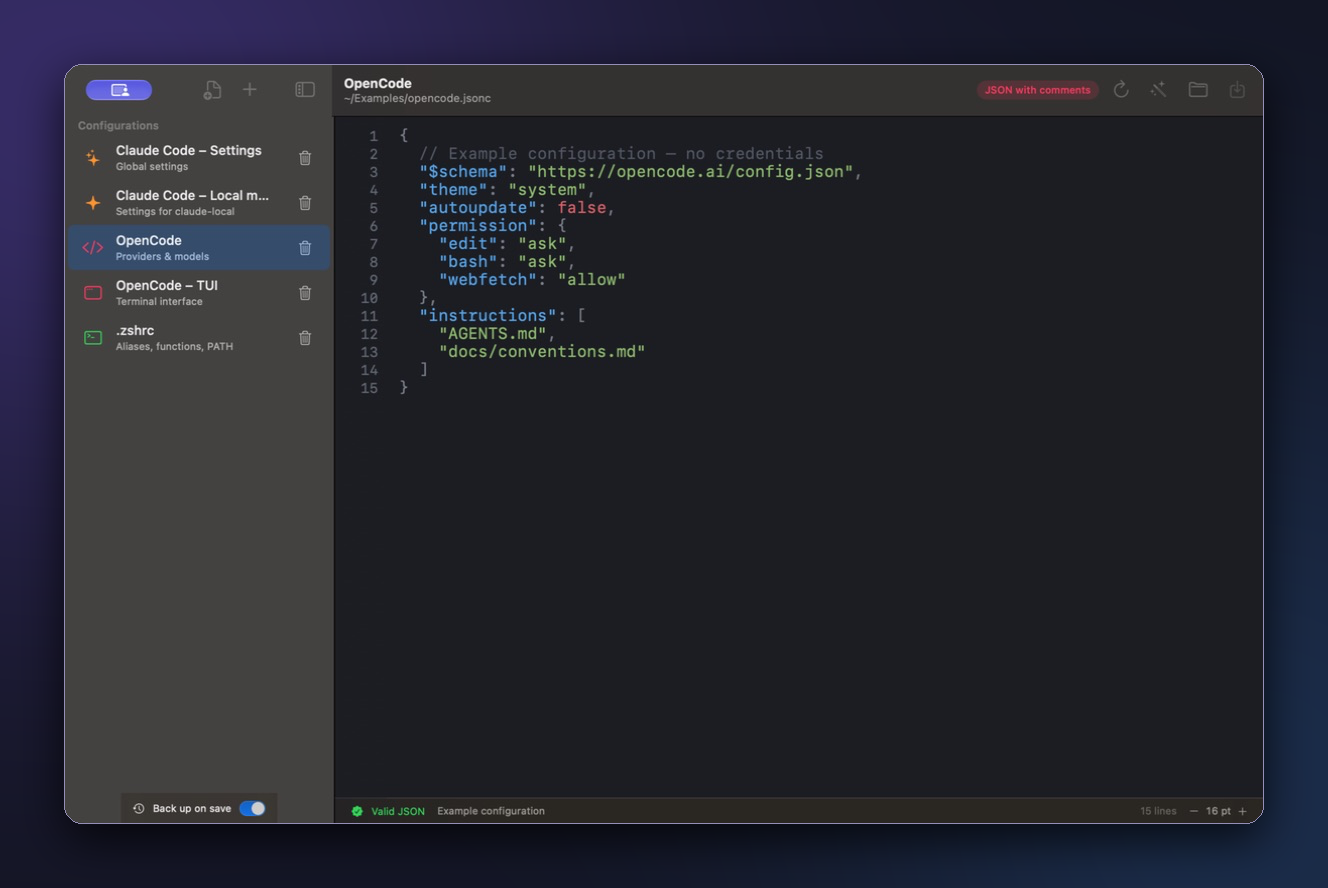
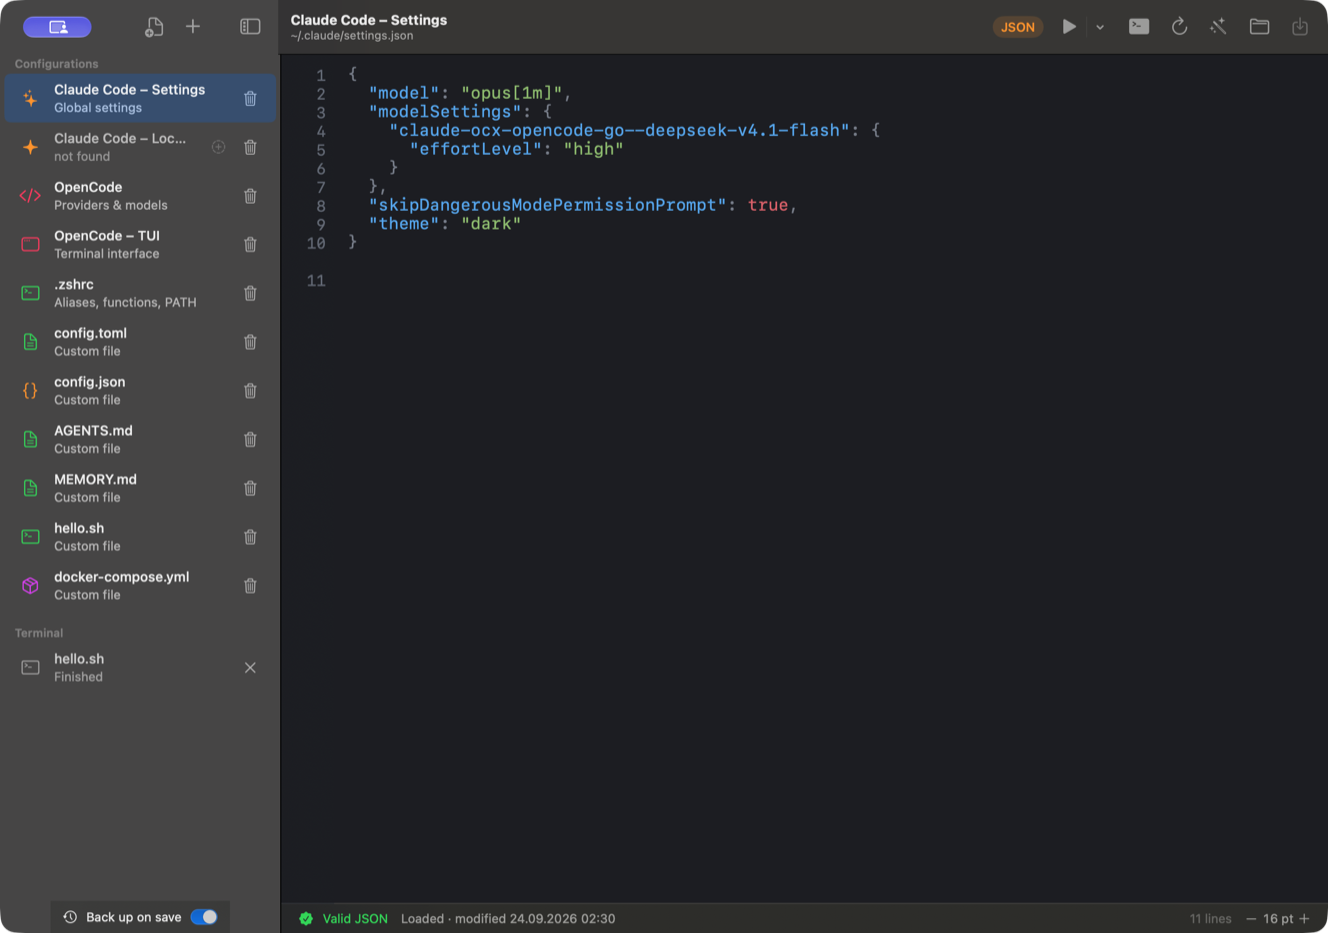
Refresh the README and screenshots for 0.2.0
The showcase now shows the sidebar with script and compose entries, and a new
section explains running scripts with its own screenshot. Both images come
from the current build (retina, 1280x900 window).

Changed region(s): [[0.0, 0.0, 1.0, 1.0], [0.8336, 0.5169, 1.0, 1.0], [0.7101, 0.0912, 0.9571, 0.152]]

diff --git a/README.md b/README.md
@@ -21,7 +21,7 @@ Built by [Robin Bially](https://github.com/robin-bially).
 
 <br />
 
-[![DotShelf’s native Mac interface: a sidebar of Claude Code, OpenCode and Zsh settings beside a syntax-highlighted JSONC editor with live validation and backups enabled.](docs/images/showcase.png)](docs/images/screenshot.png)
+[![DotShelf’s native Mac interface: a sidebar of configuration files beside a syntax-highlighted JSON editor with live validation, and a Terminal section holding a finished script run.](docs/images/showcase.png)](docs/images/screenshot.png)
 
 <p align="center"><sub>The actual DotShelf interface, in English, with example configuration files. Click for the full-size screenshot.</sub></p>
 
@@ -33,6 +33,8 @@ in another. You know the change you want to make; finding the file is the tediou
 DotShelf gives those files a permanent home in a sidebar. Open your Claude Code
 settings, tweak an OpenCode config or update `.zshrc` in a focused native editor.
 Add any other file you return to often, and give it an icon and color of its own.
+When a project comes with a script – a `docker compose` stack, a setup script –
+DotShelf runs it right there and shows the output where you edit.
 
 **Everything stays on your Mac.** No account, network calls or telemetry.
 Built with SwiftUI and AppKit, with no third-party runtime dependencies.
@@ -44,12 +46,29 @@ Built with SwiftUI and AppKit, with no third-party runtime dependencies.
 | **A shelf for your configs** | Built-in entries for Claude Code, OpenCode and Zsh. Add your own files, including hidden ones, and collapse the sidebar into an icon rail. |
 | **Comfortable editing** | Syntax highlighting for JSON, JSONC, YAML and shell, plus line numbers, search and adjustable text size. |
 | **Instant JSON feedback** | Live syntax validation for JSON and JSONC. Format JSON in a click; formatting JSONC asks before removing comments. |
+| **Run scripts where you edit them** | Start a shell script or a `docker compose` stack with **⌃R** or the green play button – it runs right away, options only when you ask for them (**⌥⌃R**). A temporary terminal entry appears in the sidebar and its output opens in the editor, with input, stop, rerun and clear. |
 | **Control over your edits** | Save explicitly with **⌘S**. Save, discard or cancel when leaving unsaved changes. Failed saves keep your buffer intact. |
 | **Careful file handling** | Preserve symlinks and existing permissions. Detect external changes before saving. Create new files with owner-only permissions. |
 | **Backups by default** | Each save of an existing file creates a separate backup beside its target. |
 
 English is the default interface language. See the [usage guide](docs/USAGE.md)
 for keyboard shortcuts, default file locations and current limitations.
+
+## Run scripts where you edit them
+
+[![DotShelf running a shell script: the sidebar lists the temporary “hello.sh” terminal entry, and the editor shows the script’s output with a green Finished status.](docs/images/terminal.png)](docs/images/terminal.png)
+
+Select a shell script or a `docker compose` file and press **⌃R** – or click the
+green play button. The command starts right away; a temporary entry appears in
+the sidebar's **Terminal** section and its output opens in the editor. Scripts and
+compose files carry their own icon, so you can tell at a glance what runs where.
+
+The terminal is a real one: type into a running process, press **⌃C** to stop it,
+**⌘V** to paste. A shell that waits at its prompt reads **Ready** – the spinner
+only shows while something actually works. DotShelf asks before closing only when
+a process is still running, and a finished script can hand over to a free login
+shell in the same folder. Options (command, working directory, name) are there
+when you want them: **⌥⌃R** or the menu next to the play button.
 
 ## Get started
 
@@ -115,7 +134,8 @@ Bug reports and focused pull requests are welcome.
 
 SwiftUI provides the app and sidebar; AppKit powers the text editor. English
 strings live in localization resources. Regression tests cover JSON parsing,
-file safety, unsaved changes, lifecycle handling and localization.
+file safety, unsaved changes, lifecycle handling, localization and the script
+runner (real PTY, input, stopping).
 
 ```sh
 swift test
